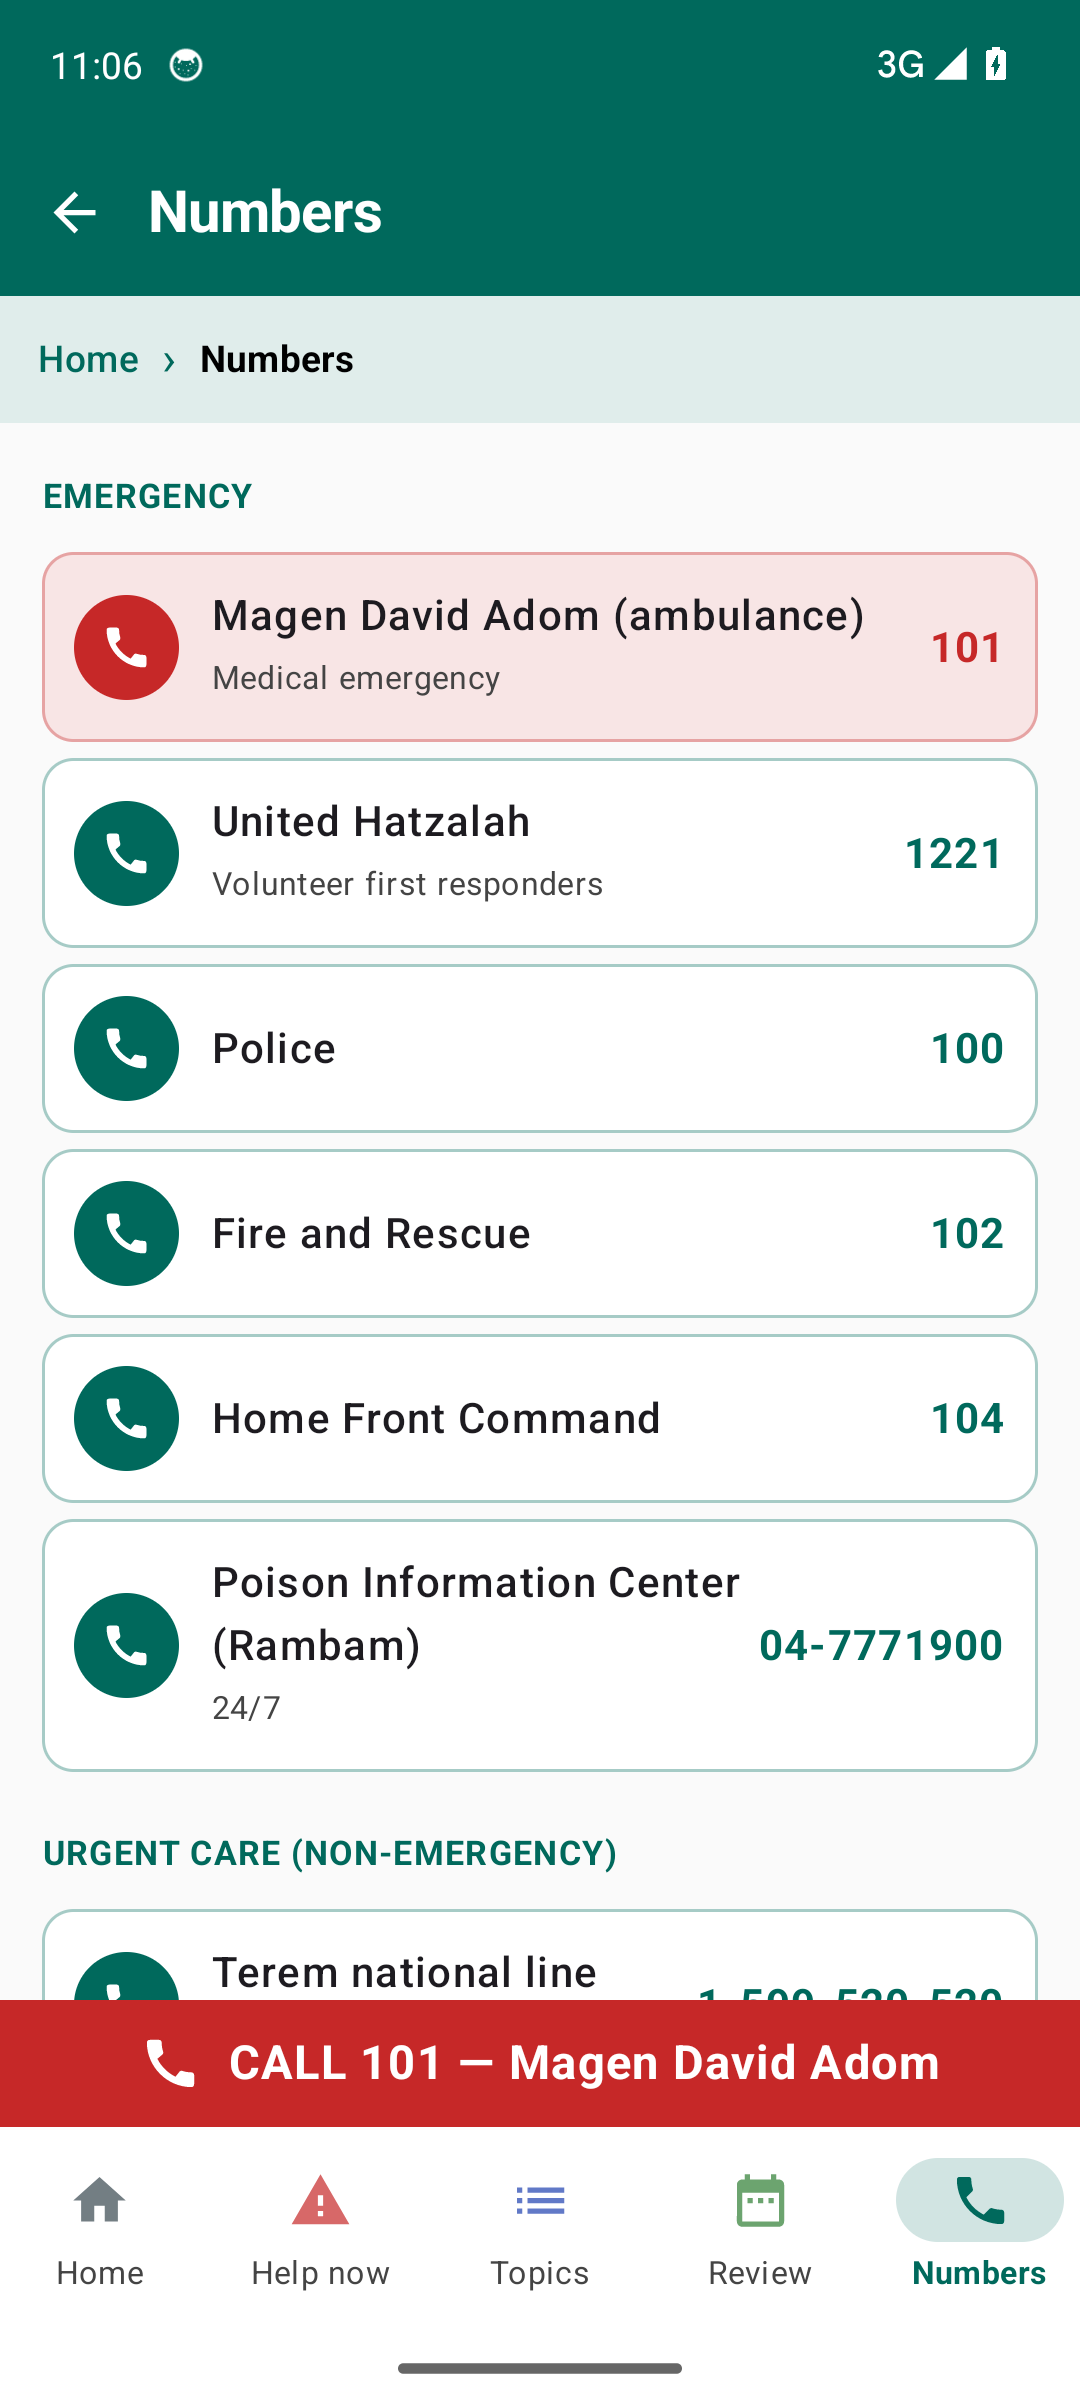
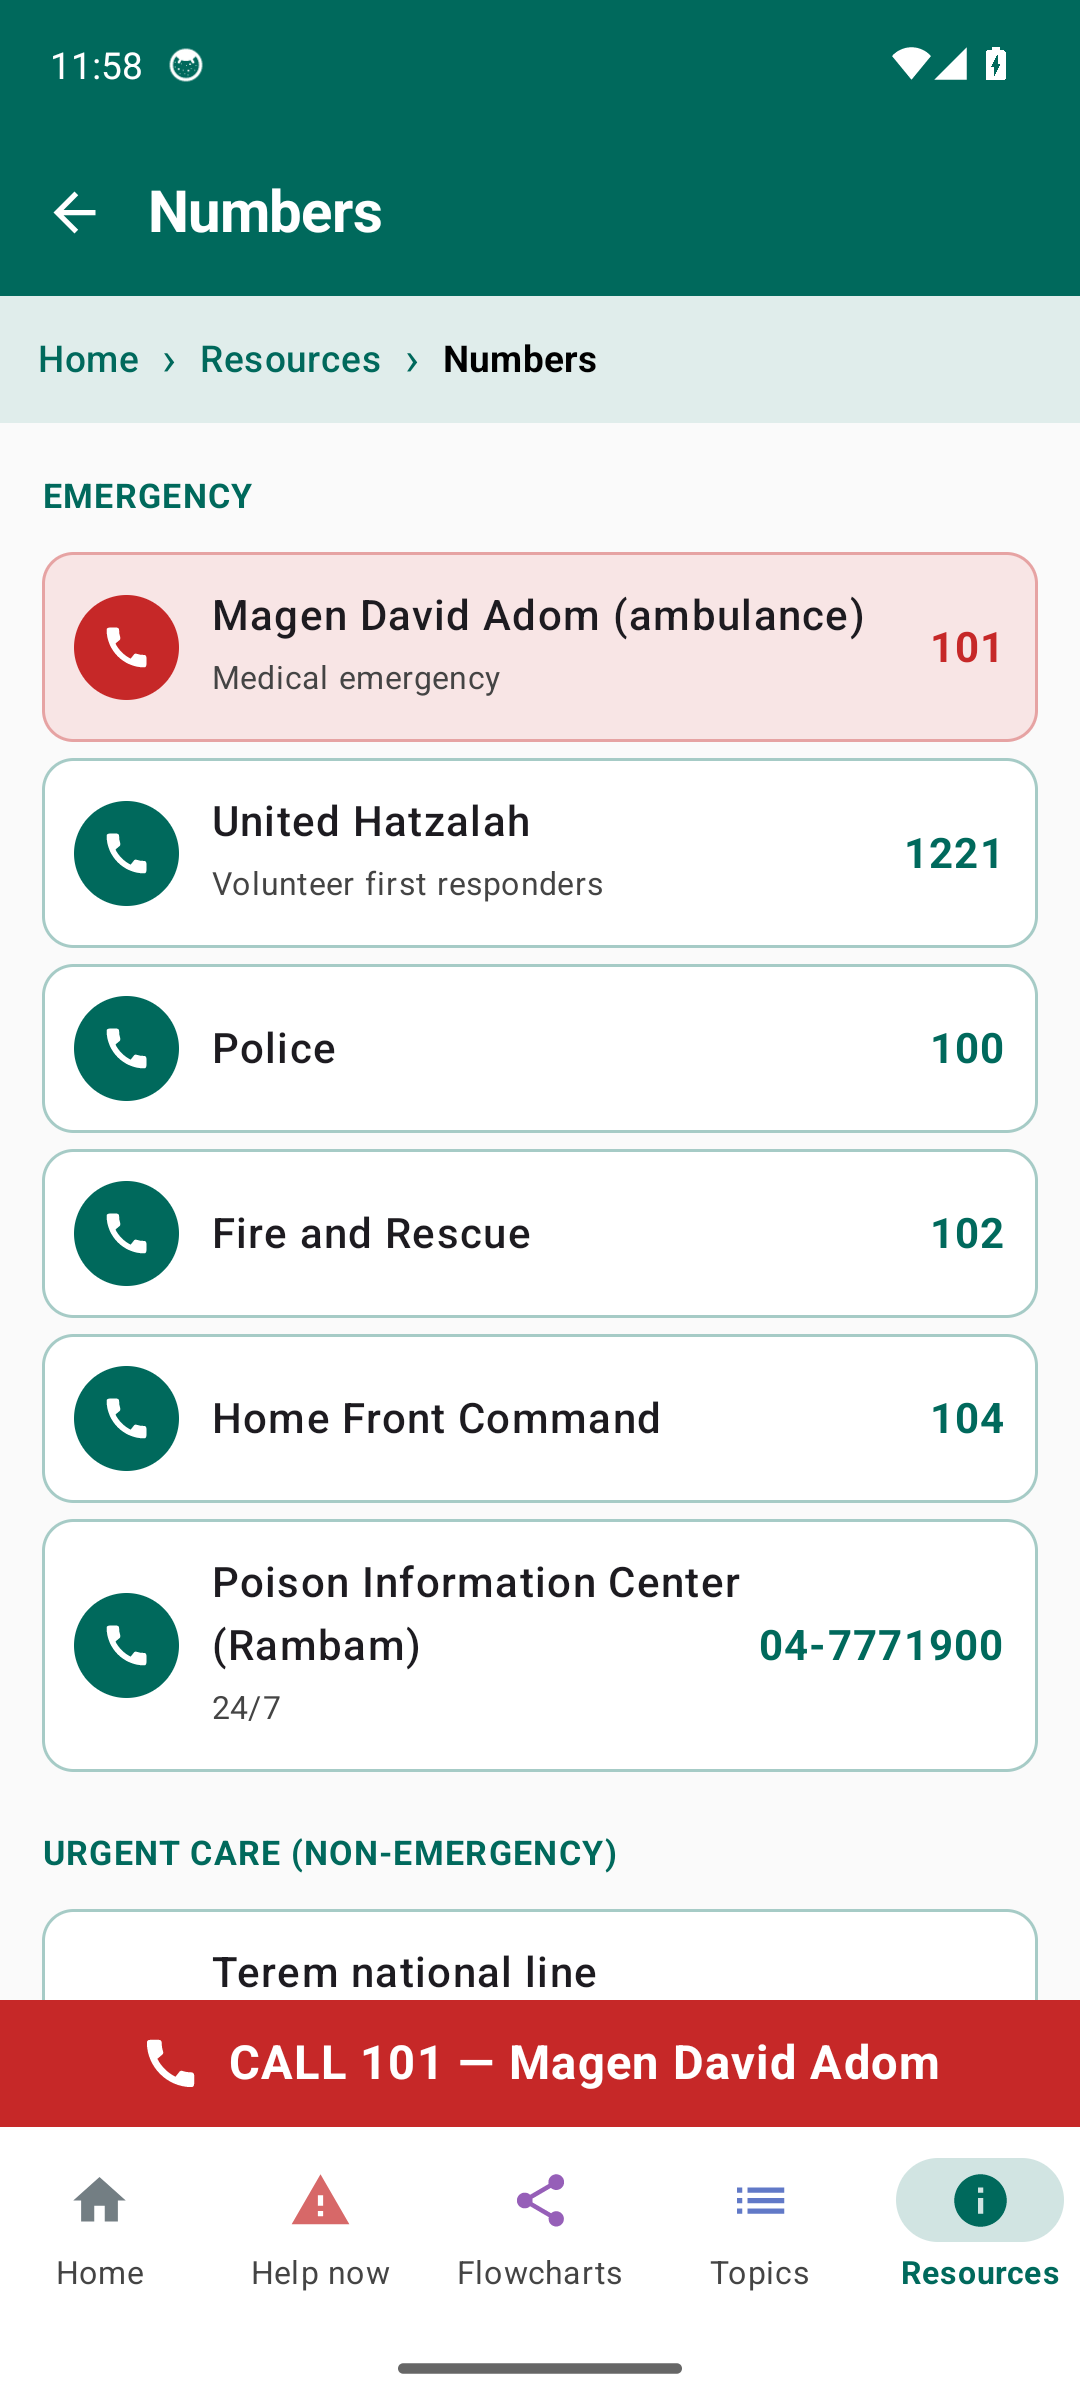
README and release notes for 0.3.0; screenshots of the new screens

diff --git a/README.md b/README.md
@@ -10,7 +10,7 @@ lets you walk through each protocol as a decision flowchart, and keeps a
 > **In an emergency, call 101.**
 
 <p>
-<img src="docs/screenshots/02-home.png" width="160"> <img src="docs/screenshots/03-triage.png" width="160"> <img src="docs/screenshots/05-cpr.png" width="160"> <img src="docs/screenshots/06-walkthrough.png" width="160"> <img src="docs/screenshots/09-completed.png" width="160"> <img src="docs/screenshots/11-review.png" width="160"> <img src="docs/screenshots/12-numbers.png" width="160"> 
+<img src="docs/screenshots/02-home.png" width="160"> <img src="docs/screenshots/03-triage.png" width="160"> <img src="docs/screenshots/08-topic.png" width="160"> <img src="docs/screenshots/14-flowcharts.png" width="160"> <img src="docs/screenshots/16-flowchart.png" width="160"> <img src="docs/screenshots/06-walkthrough.png" width="160"> <img src="docs/screenshots/17-resources.png" width="160"> <img src="docs/screenshots/18-terem.png" width="160"> <img src="docs/screenshots/19-glossary.png" width="160"> <img src="docs/screenshots/11-review.png" width="160">
 </p>
 
 <sub>Screenshots are from the CI emulator smoke test (<code>scripts/smoke-test.sh</code>), which taps through these screens on every push.</sub>
@@ -27,9 +27,10 @@ one. Your review progress is kept.
 | Strand | What it does |
 |---|---|
 | **Material** | 28 topics × adult and child = 56 protocols, grouped by type of emergency (breathing and circulation, bleeding and trauma, medical, environment, bites and stings). Each has a summary, when to use it, steps, "do not" list, equipment and source. |
-| **Decision flows** | *What's happening?* is a standalone triage tree that routes to a protocol. Every protocol also has a **step-by-step** mode: one step on screen at a time, big YES/NO buttons at each decision point, and jumps to the step that the answer points to. |
+| **Decision flows** | *What's happening?* is a standalone triage tree that routes to a protocol. Every protocol also has a **step-by-step** mode: one step on screen at a time, big YES/NO buttons at each decision point, and jumps to the step that the answer points to. The **Flowcharts** tab shows every protocol as a chart of its decision forks (YES / NO outcomes, tap "→ Step N" to jump), plus a full map of the *What's happening?* tree, without going through a topic page. |
 | **Spaced review** | Mark a topic completed for adult and/or child, then *mark as reviewed* when due. Intervals: 1 week → 1 month → 3 months → 6 months → yearly. The app shows a progress bar, a due list and the review dates, and has a reset. Progress is stored on the device only. |
-| **Crisis UI** | A "CALL 101" bar and a colour-coded section bar (Home · Help now · Topics · Review · Numbers) are pinned to every screen, with breadcrumbs under the title to jump back up the path. Home has one-tap tiles for the most urgent protocols, and the adult / child choice is made once and carried everywhere. Each topic group has its own colour and every topic an icon. The launcher icon is a red Star of David. A numbers page has click-to-dial for MDA, Hatzalah, police, fire, Home Front Command, the poison center, Terem (national line and Jerusalem branches) and the Maccabi Moked. |
+| **Crisis UI** | A "CALL 101" bar and a colour-coded section bar (Home · Help now · Flowcharts · Topics · Resources) are pinned to every screen, with breadcrumbs under the title to jump back up the path. Home has one-tap tiles for the most urgent protocols, and the adult / child choice is made once and carried everywhere. Each topic group has its own colour and every topic an icon. The launcher icon is a red Star of David. Long pages have a pinned "Jump to" bar. On topic pages, equipment, source and review progress fold into accordions so the steps stay in view. |
+| **Resources** | Click-to-dial numbers (MDA, Hatzalah, police, fire, Home Front Command, the poison center, the Terem national line, the Maccabi Moked); all 27 **Terem** branches with address, hours, a link to the branch page on terem.com and a map search; a **Hebrew glossary** of 77 emergency words and phrases with transliteration and tap-to-play audio; the review schedule; about. |
 
 The app has no internet permission, so everything works offline.
 
@@ -41,6 +42,8 @@ The idea is meant to be forked. All content is data in `app/src/main/assets/`:
 - `topics.json`: topic grouping, display names, group `color`, per-topic `icons` (emoji) and the `quick` list of home-screen tiles.
 - `triage.json`: the *What's happening?* tree (nodes → answers → `goto` / `category` / `call`). An answer that `goto`s another node can carry an `icon`; answers that open a topic use the topic's icon.
 - `contacts.json`: click-to-dial numbers.
+- `terem.json`: Terem branches (checked against terem.com; branch pages publish no phone, so only the national line is dialable).
+- `glossary.json` + `glossary/<id>.mp3`: the Hebrew glossary. Regenerate the audio with `uvx --from edge-tts python scripts/gen-glossary-audio.py` (Microsoft neural TTS, voice `he-IL-HilaNeural`; an optional `tts` field holds a niqqud spelling where plain Hebrew is ambiguous).
 
 To make your own version, replace those files, change `"101"` in `EmergencyBar` (`MainActivity.kt`) and `DISCLAIMER` (`Screens.kt`), replace the star in `res/drawable/ic_launcher_foreground.xml`, change `applicationId`, and push.
 
@@ -76,6 +79,7 @@ print/                   Printable Typst/PDF flowcharts
 - **Review reminders**: a local notification when a review falls due.
 - **Phase 2**: sign in with Google and sync review history to Drive, so two parents share one schedule. `ReviewStore.exportJson()` is the payload.
 - Hebrew UI.
+- `print/` flowcharts are separate Typst files, not generated from the JSON; the in-app Flowcharts tab is.
 
 ## History
 

diff --git a/RELEASE_NOTES.md b/RELEASE_NOTES.md
@@ -1,3 +1,10 @@
-Sideloadable APK. Download the `.apk` below on an Android phone and open it (allow "Install unknown apps" for your browser or file manager when prompted).
+Sideloadable APK. Download the `.apk` below on an Android phone and open it (allow "Install unknown apps" for your browser or file manager when prompted). It installs over the previous version and keeps your review progress.
+
+**New in 0.3.0**
+
+- **Flowcharts tab**: every protocol as a chart of its decision forks, plus a full map of the "What's happening?" guide.
+- **Resources tab**: phone numbers, all 27 Terem urgent-care branches (address, hours, branch page, map), a Hebrew glossary of 77 emergency words and phrases with audio, and the review schedule.
+- Topic pages fold equipment, source and progress into accordions. Long pages have a pinned "Jump to" bar.
+- Removed two Jerusalem Terem entries that are no longer listed on terem.com.
 
 Not an official medical tool. In an emergency, call 101.
